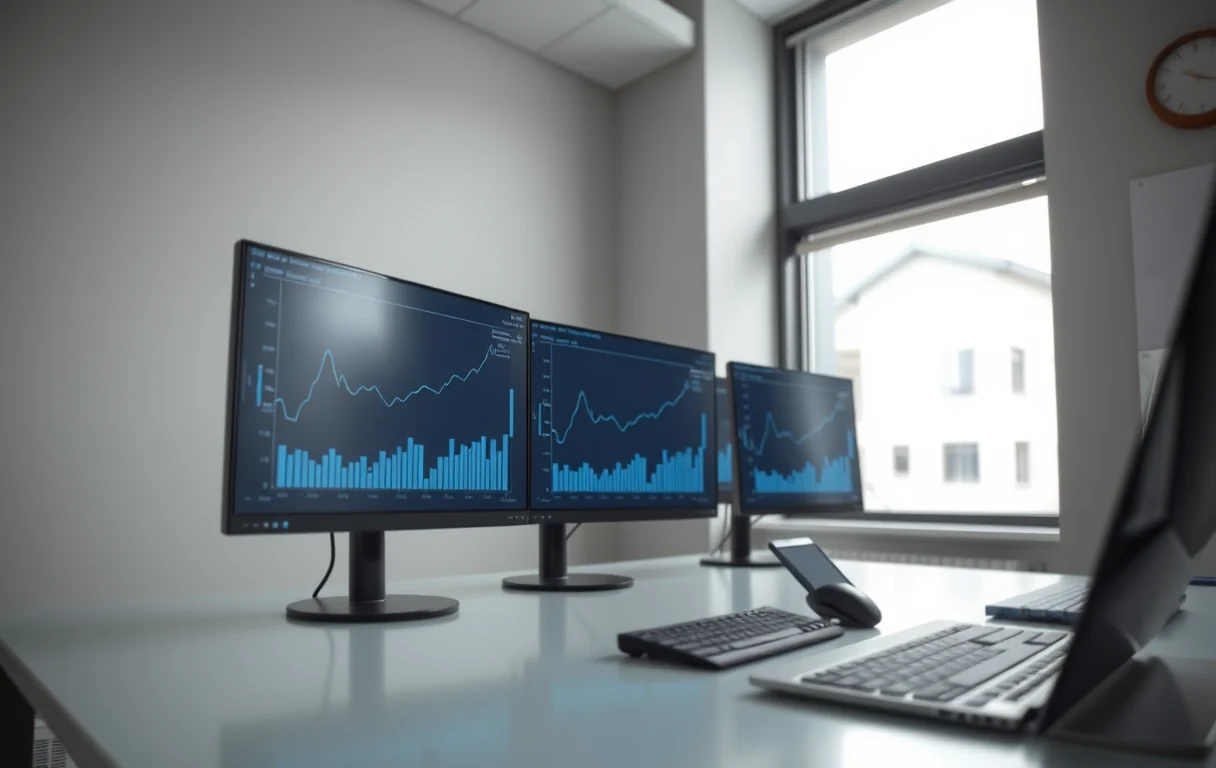
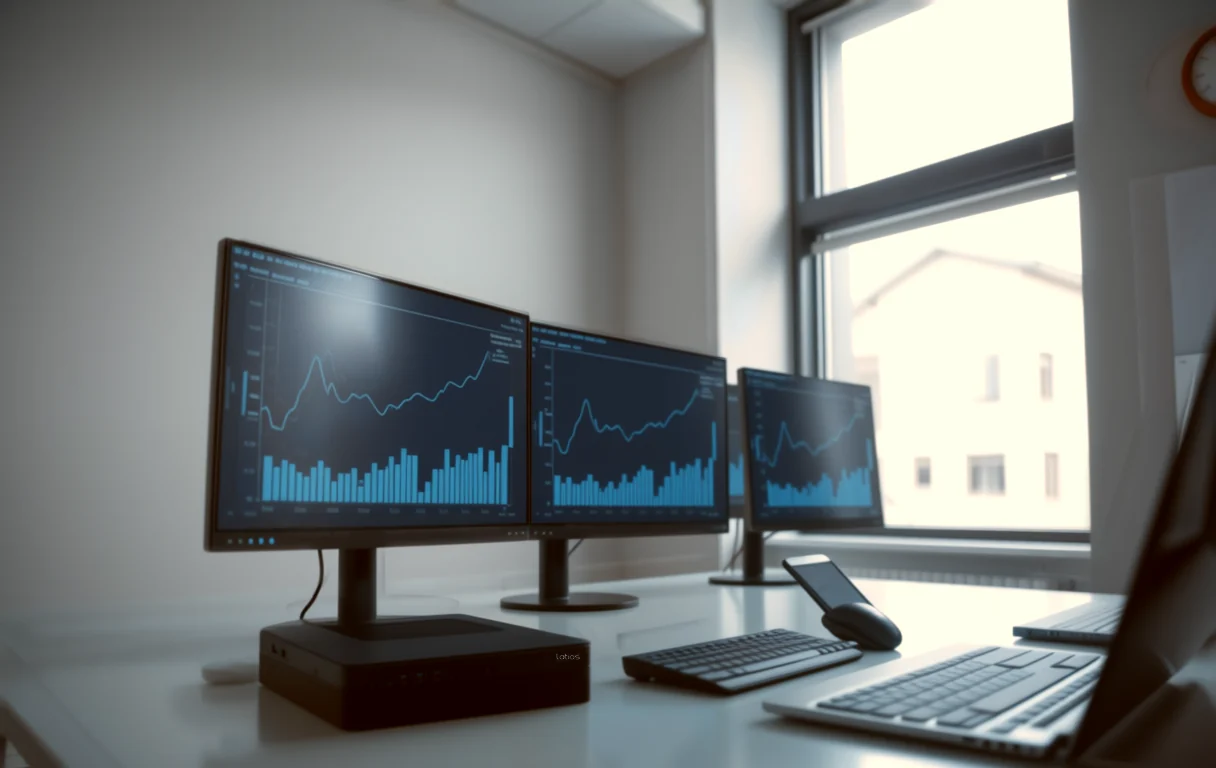
Place the real Latios hardware into the scene shots with Qwen-Image-Edit
Replaces the flat-paste approach entirely. The product now comes from the actual
photograph (dp80-1), and Qwen-Image-Edit-2509 re-renders it into the room, so it
lands with correct perspective, scale, a real contact shadow and a reflection in
the desk — the thing plain compositing and plain img2img both failed at.

The edit is not used wholesale, because the model has two failure modes:

  1. It re-renders the whole frame and shifted the entire room blue. Fixed by
     scene_merge.py, which keeps the ORIGINAL room pixel-for-pixel and takes only
     the region the model actually changed, through a feathered difference mask.
     The mask and the colour match are mutually dependent (a global cast makes
     every pixel look "changed"), so they are solved by alternating twice.
  2. It redrew the wordmark as "Lohxs". The garbled lettering is wiped and the
     genuine latios-wordmark.png is composited in its place.

Worth stating plainly: the mark occupies 24 pixels in a 1216px room shot, so no
amount of work makes it *legible* at that distance — a wide environmental shot
physically cannot. What this achieves is a correct mark rather than a misspelt
one. Crystal-clear branding lives on the product shots, where dp80-1/-2/-3 carry
the real wordmark straight from the camera.

Stack is additive: ComfyUI + Qwen-Image-Edit-2509 GGUF Q4_K_M (Apache-2.0) in
its own venv at C:\Ronak\ComfyUI. The Forge/FLUX install is untouched. ~11 min
[…]

diff --git a/tools/image-processing/scene_merge.py b/tools/image-processing/scene_merge.py
@@ -1,0 +1,135 @@
+"""
+Keep only what the edit model got right, and restore the rest from the original.
+
+Qwen-Image-Edit places the product correctly — right perspective, right scale,
+a real contact shadow and a reflection in the desk — but it re-renders the whole
+frame, which (a) shifts the entire room's colour and (b) redraws the Latios
+wordmark as garbled lettering.
+
+So the edit is not used wholesale:
+
+  * The room comes from the ORIGINAL scene, pixel for pixel. Only the region the
+    model actually changed (product + its shadow + its reflection) is taken from
+    the edit, through a feathered difference mask.
+  * That region is colour-matched back to the original's palette, measured on the
+    untouched background, so the composited area cannot carry the blue cast.
+  * The wordmark is then replaced with the genuine latios-wordmark.png, warped to
+    the panel's perspective. This is not the old flat-paste failure: there the
+    whole chassis was invented and the logo sat at the wrong scale on a fake box.
+    Here the chassis is a faithful re-render of the real photograph and only the
+    ~90px of lettering is substituted, so the mark is pixel-exact by construction.
+"""
+import numpy as np
+from pathlib import Path
+from PIL import Image, ImageFilter, ImageDraw
+
+IMAGES = Path(r"C:\Ronak\latios-web\frontend\public\images")
+G = Path(__file__).parent / "generated"
+WORDMARK = IMAGES / "latios-wordmark.png"
+
+
+def change_mask(orig, edit, thresh=14, blur=6, grow=3):
+    """Where did the model actually change something?"""
+    a = np.asarray(orig.convert("RGB")).astype(np.int16)
+    b = np.asarray(edit.convert("RGB")).astype(np.int16)
+    d = np.abs(a - b).max(axis=2)
+    m = Image.fromarray(((d > thresh) * 255).astype(np.uint8))
+    m = m.filter(ImageFilter.MaxFilter(2 * grow + 1))     # close pinholes / grow
+    return m.filter(ImageFilter.GaussianBlur(blur))
+
+
+def match_palette(edit, orig, mask):
+    """
+    Re-grade the edit to the original's colour, measured where nothing changed.
+
+    The background is the honest reference: if the model shifted the room blue,
+    that shift shows up there, and undoing it there undoes it on the product too.
+    """
+    e = np.asarray(edit.convert("RGB")).astype(np.float32)
+    o = np.asarray(orig.convert("RGB")).astype(np.float32)
+    bg = np.asarray(mask).astype(np.float32) / 255.0 < 0.1
+    if bg.sum() < 1000:
+        return edit
+    out = np.empty_like(e)
+    for c in range(3):
+        es, os_ = e[..., c][bg], o[..., c][bg]
+        sd = es.std() or 1.0
+        out[..., c] = (e[..., c] - es.mean()) * (os_.std() / sd) + os_.mean()
+    return Image.fromarray(np.clip(out, 0, 255).astype(np.uint8))
+
+
+def merge(orig_path, edit_path, out_path, thresh=14):
+    orig = Image.open(orig_path).convert("RGB")
+    edit = Image.open(edit_path).convert("RGB").resize(orig.size, Image.LANCZOS)
+
+    # Chicken-and-egg: the mask needs a colour-matched edit (otherwise the global
+    # cast makes every pixel "changed"), and the match needs a mask to know which
+    # pixels are background. Start from an all-background assumption — the frame
+    # is mostly unchanged room, so that first estimate is already close — then
+    # alternate. Two passes converge.
+    empty = Image.new("L", orig.size, 0)
+    graded = match_palette(edit, orig, empty)
+    for _ in range(2):
+        mask = change_mask(orig, graded, thresh=thresh)
+        graded = match_palette(edit, orig, mask)
+    mask = change_mask(orig, graded, thresh=thresh)
+    merged = Image.composite(graded, orig, mask)
+    merged.save(out_path)
+    cover = np.asarray(mask).mean() / 255.0
+    print(f"  merged -> {Path(out_path).name}  (edit region {cover*100:.1f}% of frame)")
+    return merged
+
+
+def place_wordmark(img, box, tone=None, opacity=0.9):
+    """
+    Draw the genuine wordmark into `box` = (x0, y0, x1, y1).
+
+    No perspective warp: at the size these marks occupy in a room shot (tens of
+    pixels) foreshortening is well under a pixel, and an earlier attempt to warp
+    via Image.QUAD remapped the whole layer instead of the mark. A straight
+    resize is both correct and safer.
+
+    `tone` recolours the mark to the panel's own highlight instead of pure white,
+    so it sits in the scene's light rather than glowing out of it.
+    """
+    x0, y0, x1, y1 = box
+    wm = Image.open(WORDMARK).convert("RGBA")
+    wm = wm.resize((max(2, x1 - x0), max(2, y1 - y0)), Image.LANCZOS)
+    if tone:
+        solid = Image.new("RGBA", wm.size, tuple(tone) + (255,))
+        solid.putalpha(wm.getchannel("A"))
+        wm = solid
+    wm.putalpha(wm.getchannel("A").point(lambda v: int(v * opacity)))
+    layer = Image.new("RGBA", img.size, (0, 0, 0, 0))
+    layer.paste(wm, (x0, y0), wm)
+    return Image.alpha_composite(img.convert("RGBA"), layer).convert("RGB")
+
+
+def erase(img, box, sample=10, feather=4, pad=4, side="left"):
+    """
+    Wipe the model's garbled lettering before the real mark goes down.
+
+    Fills from ONE side only. Interpolating between both sides looked obvious
+    here: the mark sits near the chassis edge, so the right-hand sample fell on
+    the bright window behind it and the fill ramped to white.
+    """
+    x0, y0, x1, y1 = (box[0] - pad, box[1] - pad, box[2] + pad, box[3] + pad)
+    a = np.asarray(img.convert("RGB")).astype(np.float32)
+    if side == "left":
+        ref = a[y0:y1, max(0, x0 - sample):x0].mean(axis=1)
+    else:
+        ref = a[y0:y1, x1:x1 + sample].mean(axis=1)
+    fill = np.repeat(ref[:, None, :], x1 - x0, axis=1)
+    fill += np.random.default_rng(3).normal(0, 1.2, (fill.shape[0], fill.shape[1], 1))
+    patch = Image.fromarray(np.clip(fill, 0, 255).astype(np.uint8))
+    m = Image.new("L", (x1 - x0, y1 - y0), 0)
+    ImageDraw.Draw(m).rectangle((feather, feather, x1 - x0 - feather, y1 - y0 - feather), fill=255)
+    m = m.filter(ImageFilter.GaussianBlur(feather))
+    out = img.copy()
+    out.paste(patch, (x0, y0), m)
+    return out
+
+
+if __name__ == "__main__":
+    import sys
+    merge(sys.argv[1], sys.argv[2], sys.argv[3])
